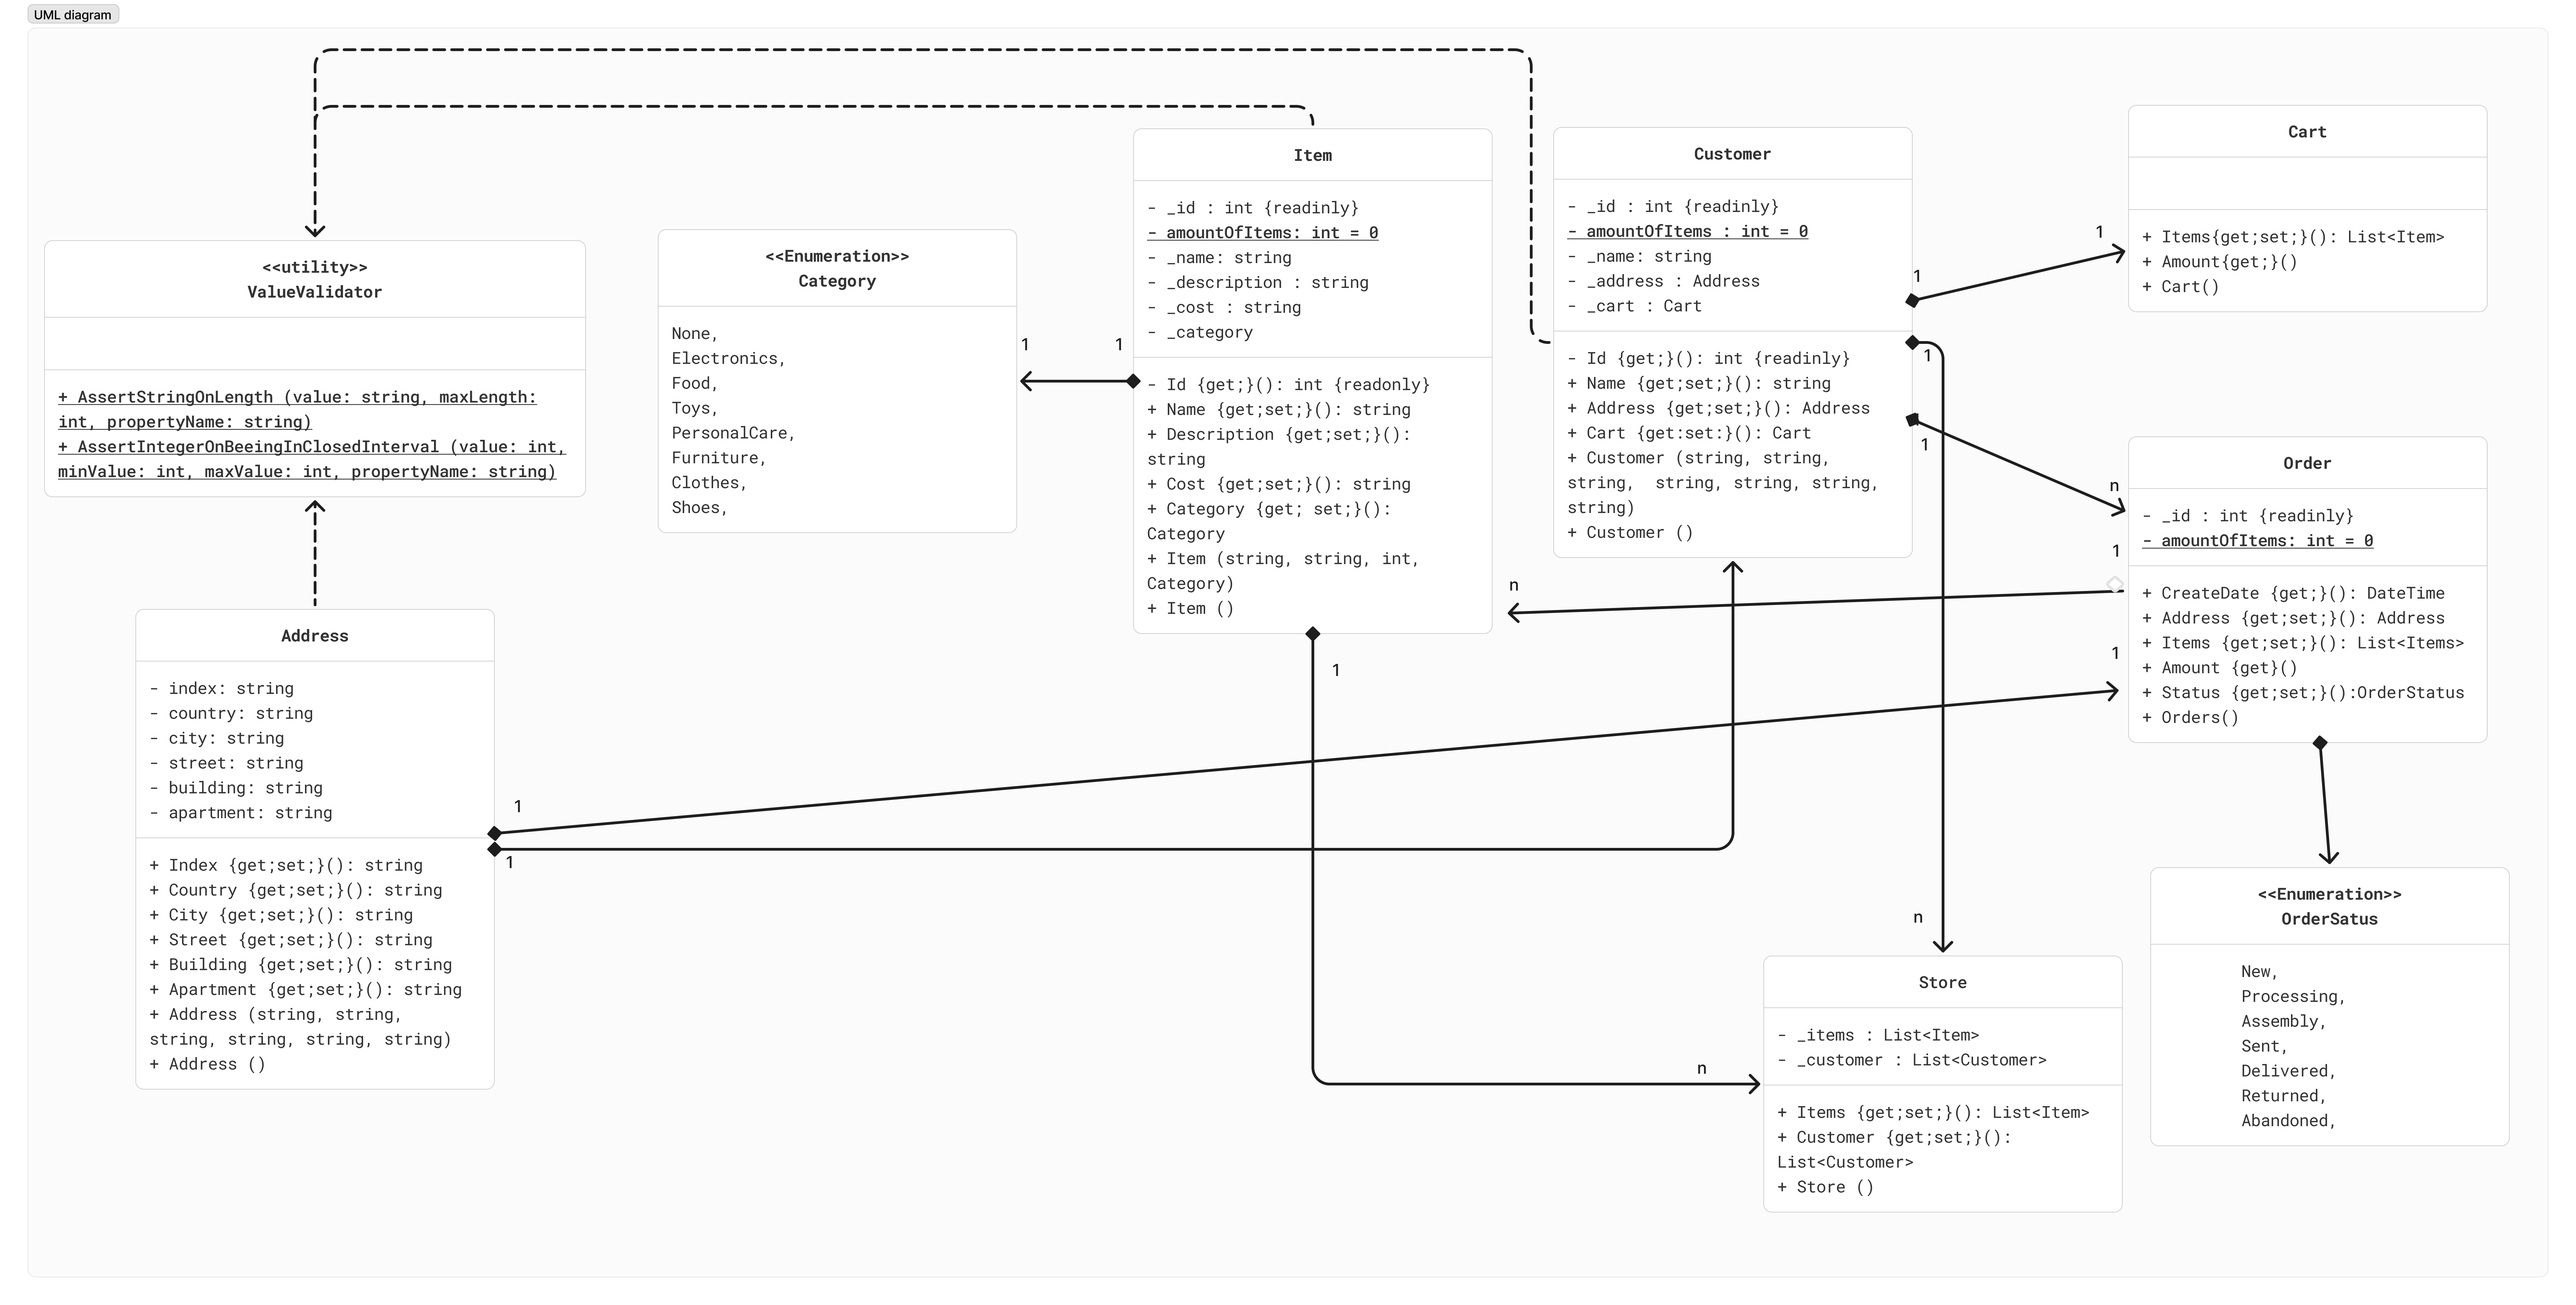
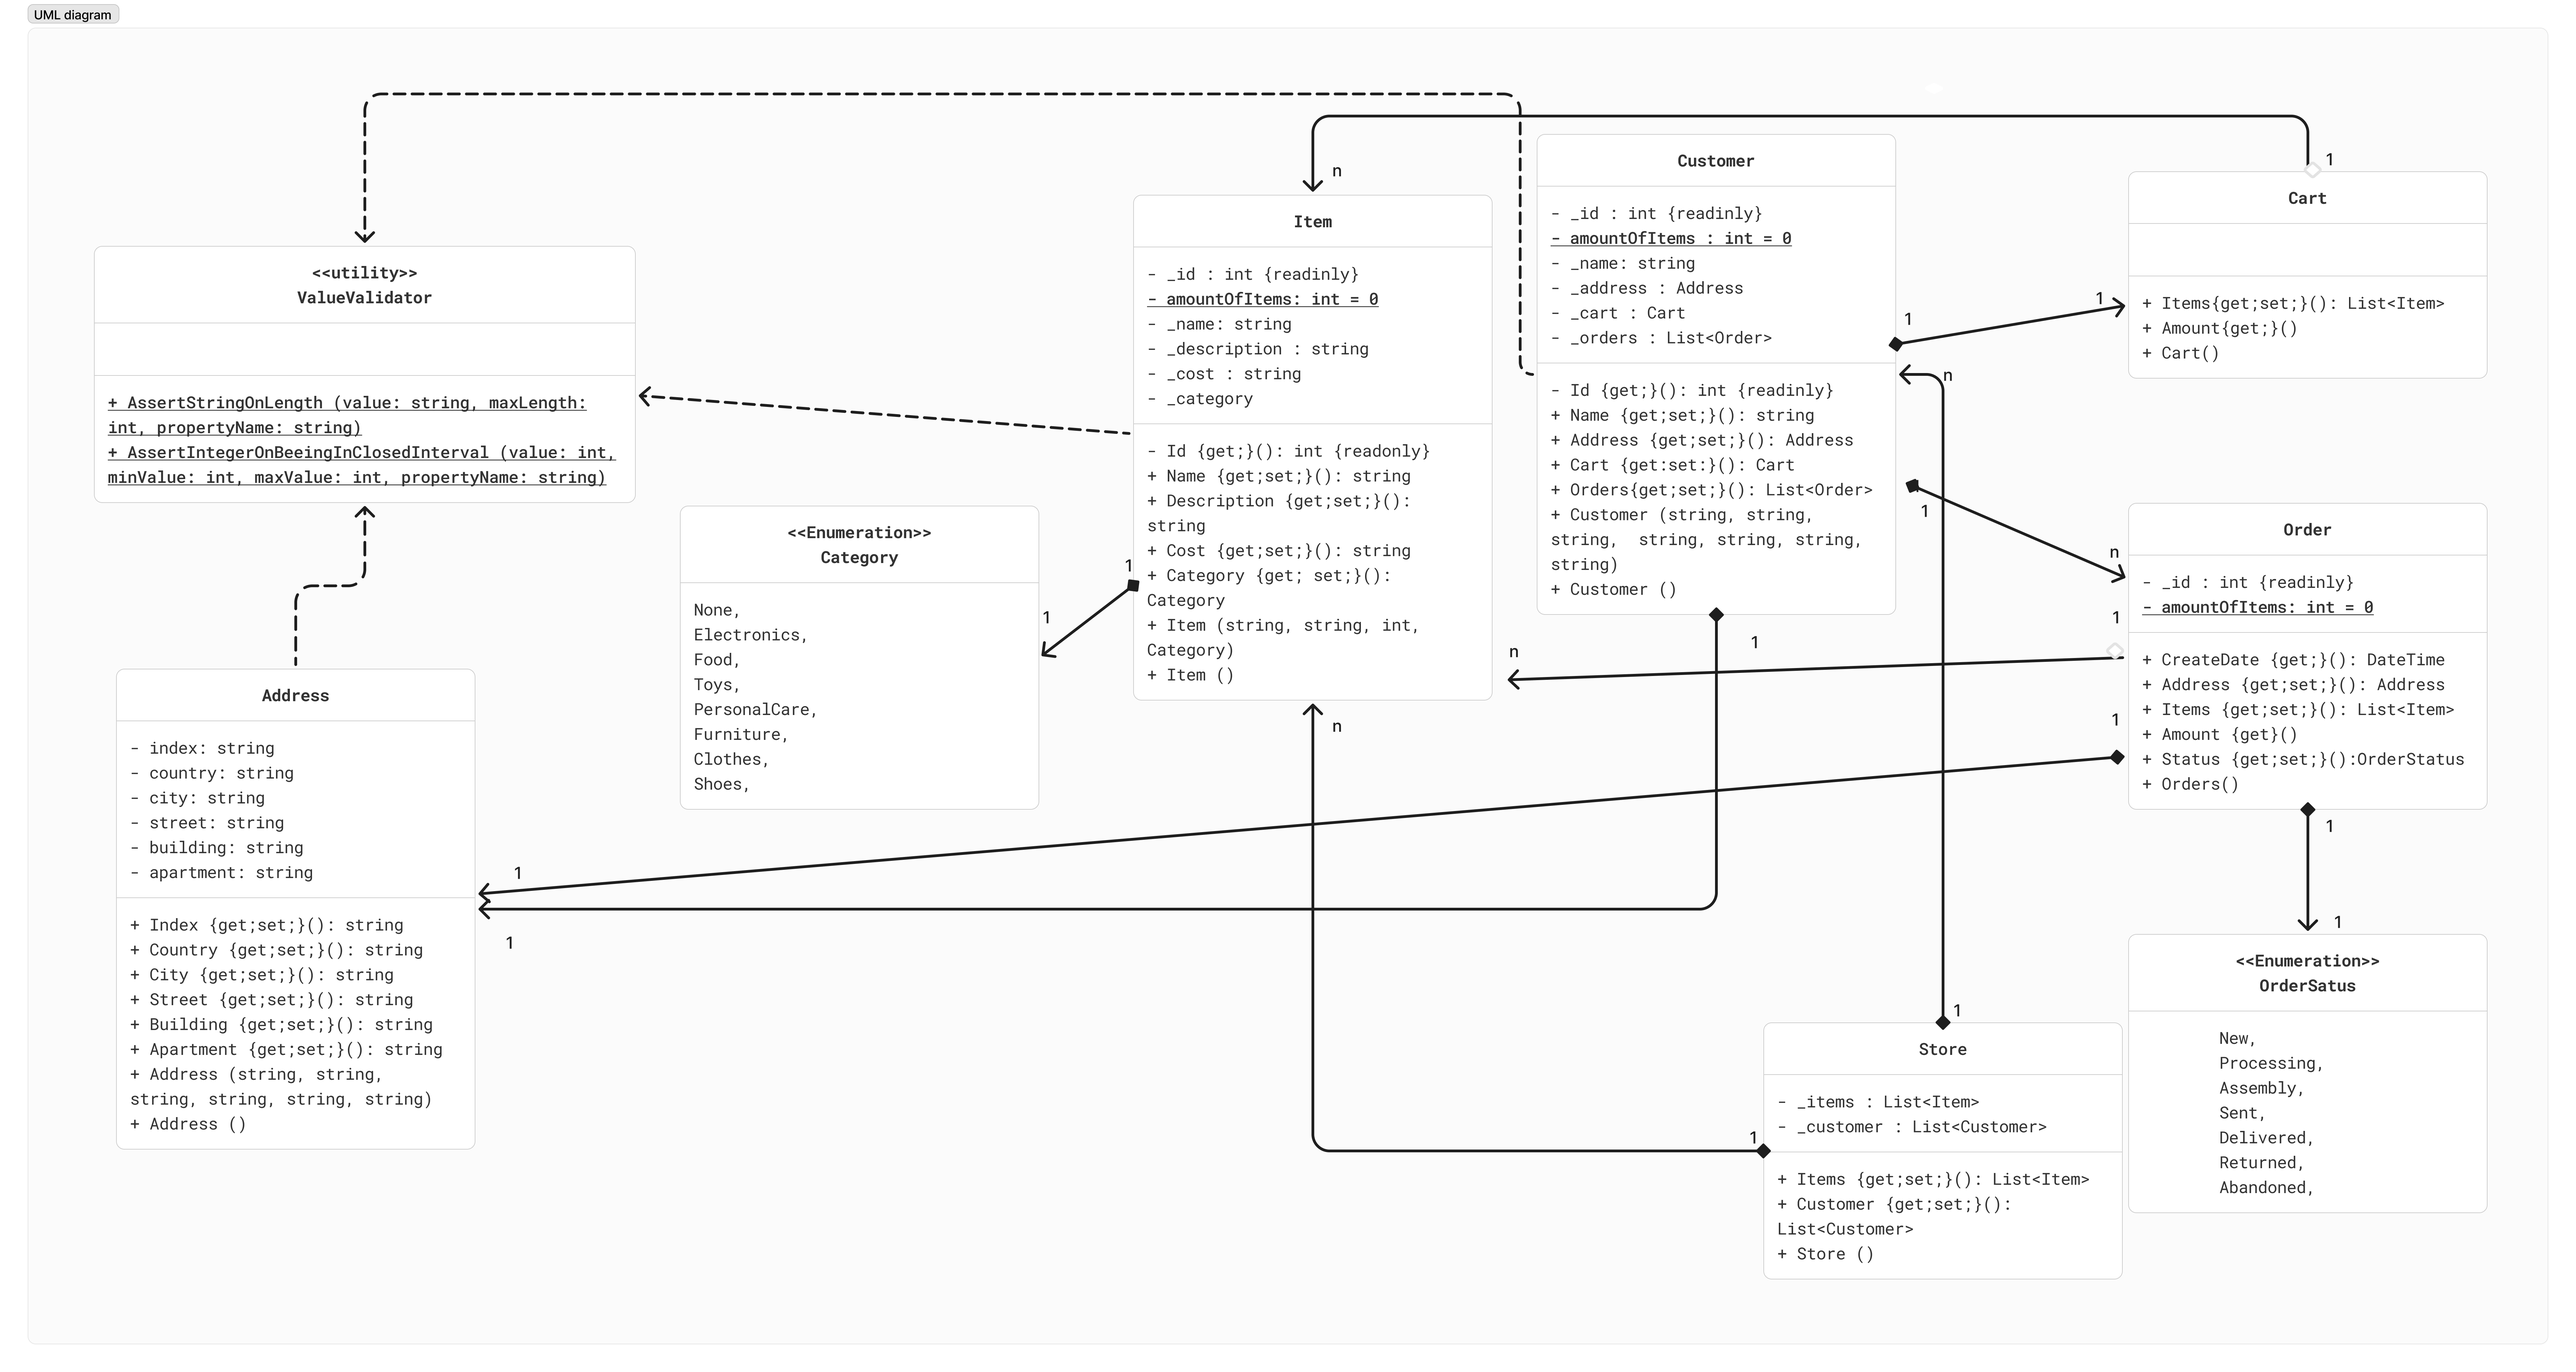
Reafactor (ObjectOrientedPractics): deleted non needed fields

diff --git a/ObjectOrientedPractics/Model/Classes/Item.cs b/ObjectOrientedPractics/Model/Classes/Item.cs
@@ -13,14 +13,13 @@ namespace ObjectOrientedPractics.Model
     public class Item
     {
         ///<summary>
-        /// ID товара.
+        /// ID товара. Только для чтения.
         ///</summary>
         private readonly int _id;
         ///<summary>
         /// Хранит ID товара. Только для чтения.
         ///</summary>
-        public int Id
-        { get { return _id; } }
+        public int Id { get; }
 
         ///<summary>
         /// Количество товаров. Статично.
@@ -79,15 +78,11 @@ namespace ObjectOrientedPractics.Model
                     _cost = value; 
             }
         }
-        /// <summary>
-        /// Rатегория товара.
-        /// </summary>
-        private Category _category;
+
         /// <summary>
         /// Хранит категорию товара. Является перечилсением типа <see cref="Category"/>.
         /// </summary>
-        public Category Category
-        { get; set; }
+        public Category Category { get; set; }
 
         /// <summary>
         /// Создаёт экземпляр класса <see cref="Item"/>.
@@ -98,7 +93,7 @@ namespace ObjectOrientedPractics.Model
         /// <param name="category">Хранит категорию товара. Является перечилсением типа <see cref="Category"/>.</param>
         public Item (string name, string description, int cost, Category category)
         {
-            _id = _amountOfItems;
+            Id = _amountOfItems;
             _amountOfItems += 1;
             Name = name;
             Description = description;
@@ -110,7 +105,7 @@ namespace ObjectOrientedPractics.Model
         /// </summary>
         public Item() 
         { 
-            _id = _amountOfItems;
+            Id = _amountOfItems;
             _amountOfItems += 1;
             Name = "";
             Description = "";

diff --git a/ObjectOrientedPractics/Model/Classes/Customer.cs b/ObjectOrientedPractics/Model/Classes/Customer.cs
@@ -41,27 +41,15 @@ namespace ObjectOrientedPractics.Model.Classes
         }
 
         /// <summary>
-        /// Адрес покупателя.
-        /// </summary>
-        private Address _address;
-        /// <summary>
         /// Хранит адрес покупателя. Является объектом класса <see cref="Classes.Address"/>.
         /// </summary>
         public Address Address { get; set; }
 
         /// <summary>
-        /// Корзина.
-        /// </summary>
-        private Cart _cart;
-        /// <summary>
         /// Хранит данные о корзине. Является объектом класса <see cref="Classes.Cart"/>.
         /// </summary>
         public Cart Cart { get; set; }
 
-        /// <summary>
-        /// Спиок заказов покупателя.
-        /// </summary>
-        private List<Order> _orders;
         /// <summary>
         /// Хранит Спиок обектов вида <see cref="Model.Classes.Order"/>.
         /// </summary>

diff --git a/ObjectOrientedPractics/Model/Classes/Store.cs b/ObjectOrientedPractics/Model/Classes/Store.cs
@@ -9,19 +9,12 @@ namespace ObjectOrientedPractics.Model
 {
     public class Store
     {
-        /// <summary>
-        /// Список объектов класса <see cref="Item"/>.
-        /// </summary>
-        private List<Item> _items = new List<Item>();
+
         /// <summary>
         /// Хранит список объектов класса <see cref="Model.Item"/>.
         /// </summary>
         public List<Item> Items { get; set; }
 
-        /// <summary>
-        /// Список объектов класса <see cref="Classes.Customer"/>.
-        /// </summary>
-        private List<Customer> _customers = new List<Customer>();
         /// <summary>
         /// Хранит список объектов класса <see cref="Classes.Customer"/>.
         /// </summary>

diff --git a/ObjectOrientedPractics/Model/Classes/Cart.cs b/ObjectOrientedPractics/Model/Classes/Cart.cs
@@ -11,10 +11,7 @@ namespace ObjectOrientedPractics.Model.Classes
     /// </summary>
     public class Cart
     {
-        /// <summary>
-        /// Список товаров.
-        /// </summary>
-        private List<Item> _items;
+
         /// <summary>
         /// Хранит список объектов класса <see cref="Item"/>.
         /// </summary>
